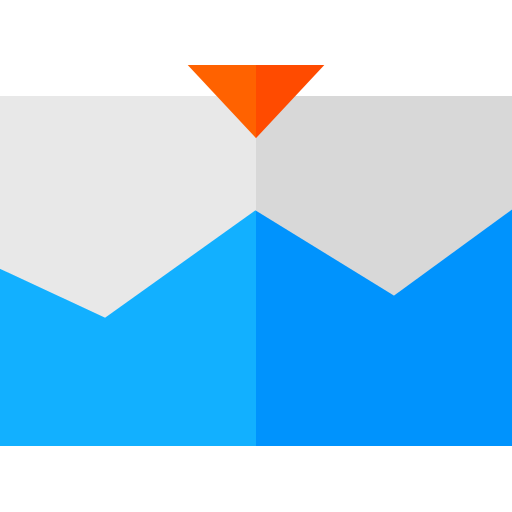
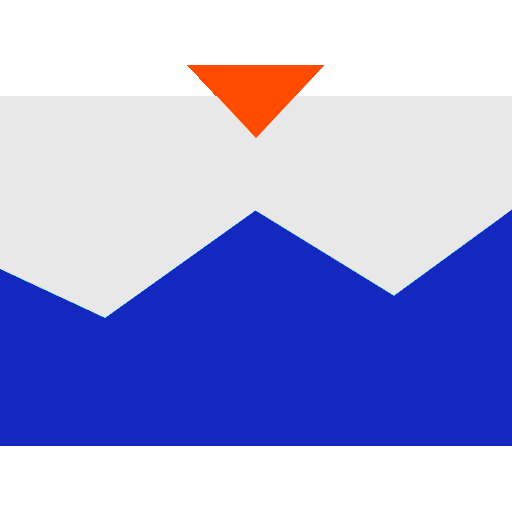
Update images

diff --git a/python-image-processing/normalize_ui.py b/python-image-processing/normalize_ui.py
@@ -1,5 +1,6 @@
 from PyQt5.QtWidgets import QLabel, QDialogButtonBox, QVBoxLayout, QHBoxLayout, QWidget
 from PyQt5.QtCore import Qt, QMetaObject
+from PyQt5.QtGui import QIcon, QPixmap
 
 from histogram_ui import MplCanvas
 from range_slider import RangeSlider
@@ -22,6 +23,10 @@ class NormalizeUI:
         """
 
         normalize.setObjectName("normalize")
+
+        icon = QIcon()
+        icon.addPixmap(QPixmap("images/normalize.png"), QIcon.Normal, QIcon.Off)
+        normalize.setWindowIcon(icon)
 
         self.label_txt = QLabel(normalize)
         self.label_txt.setObjectName("label_txt")
